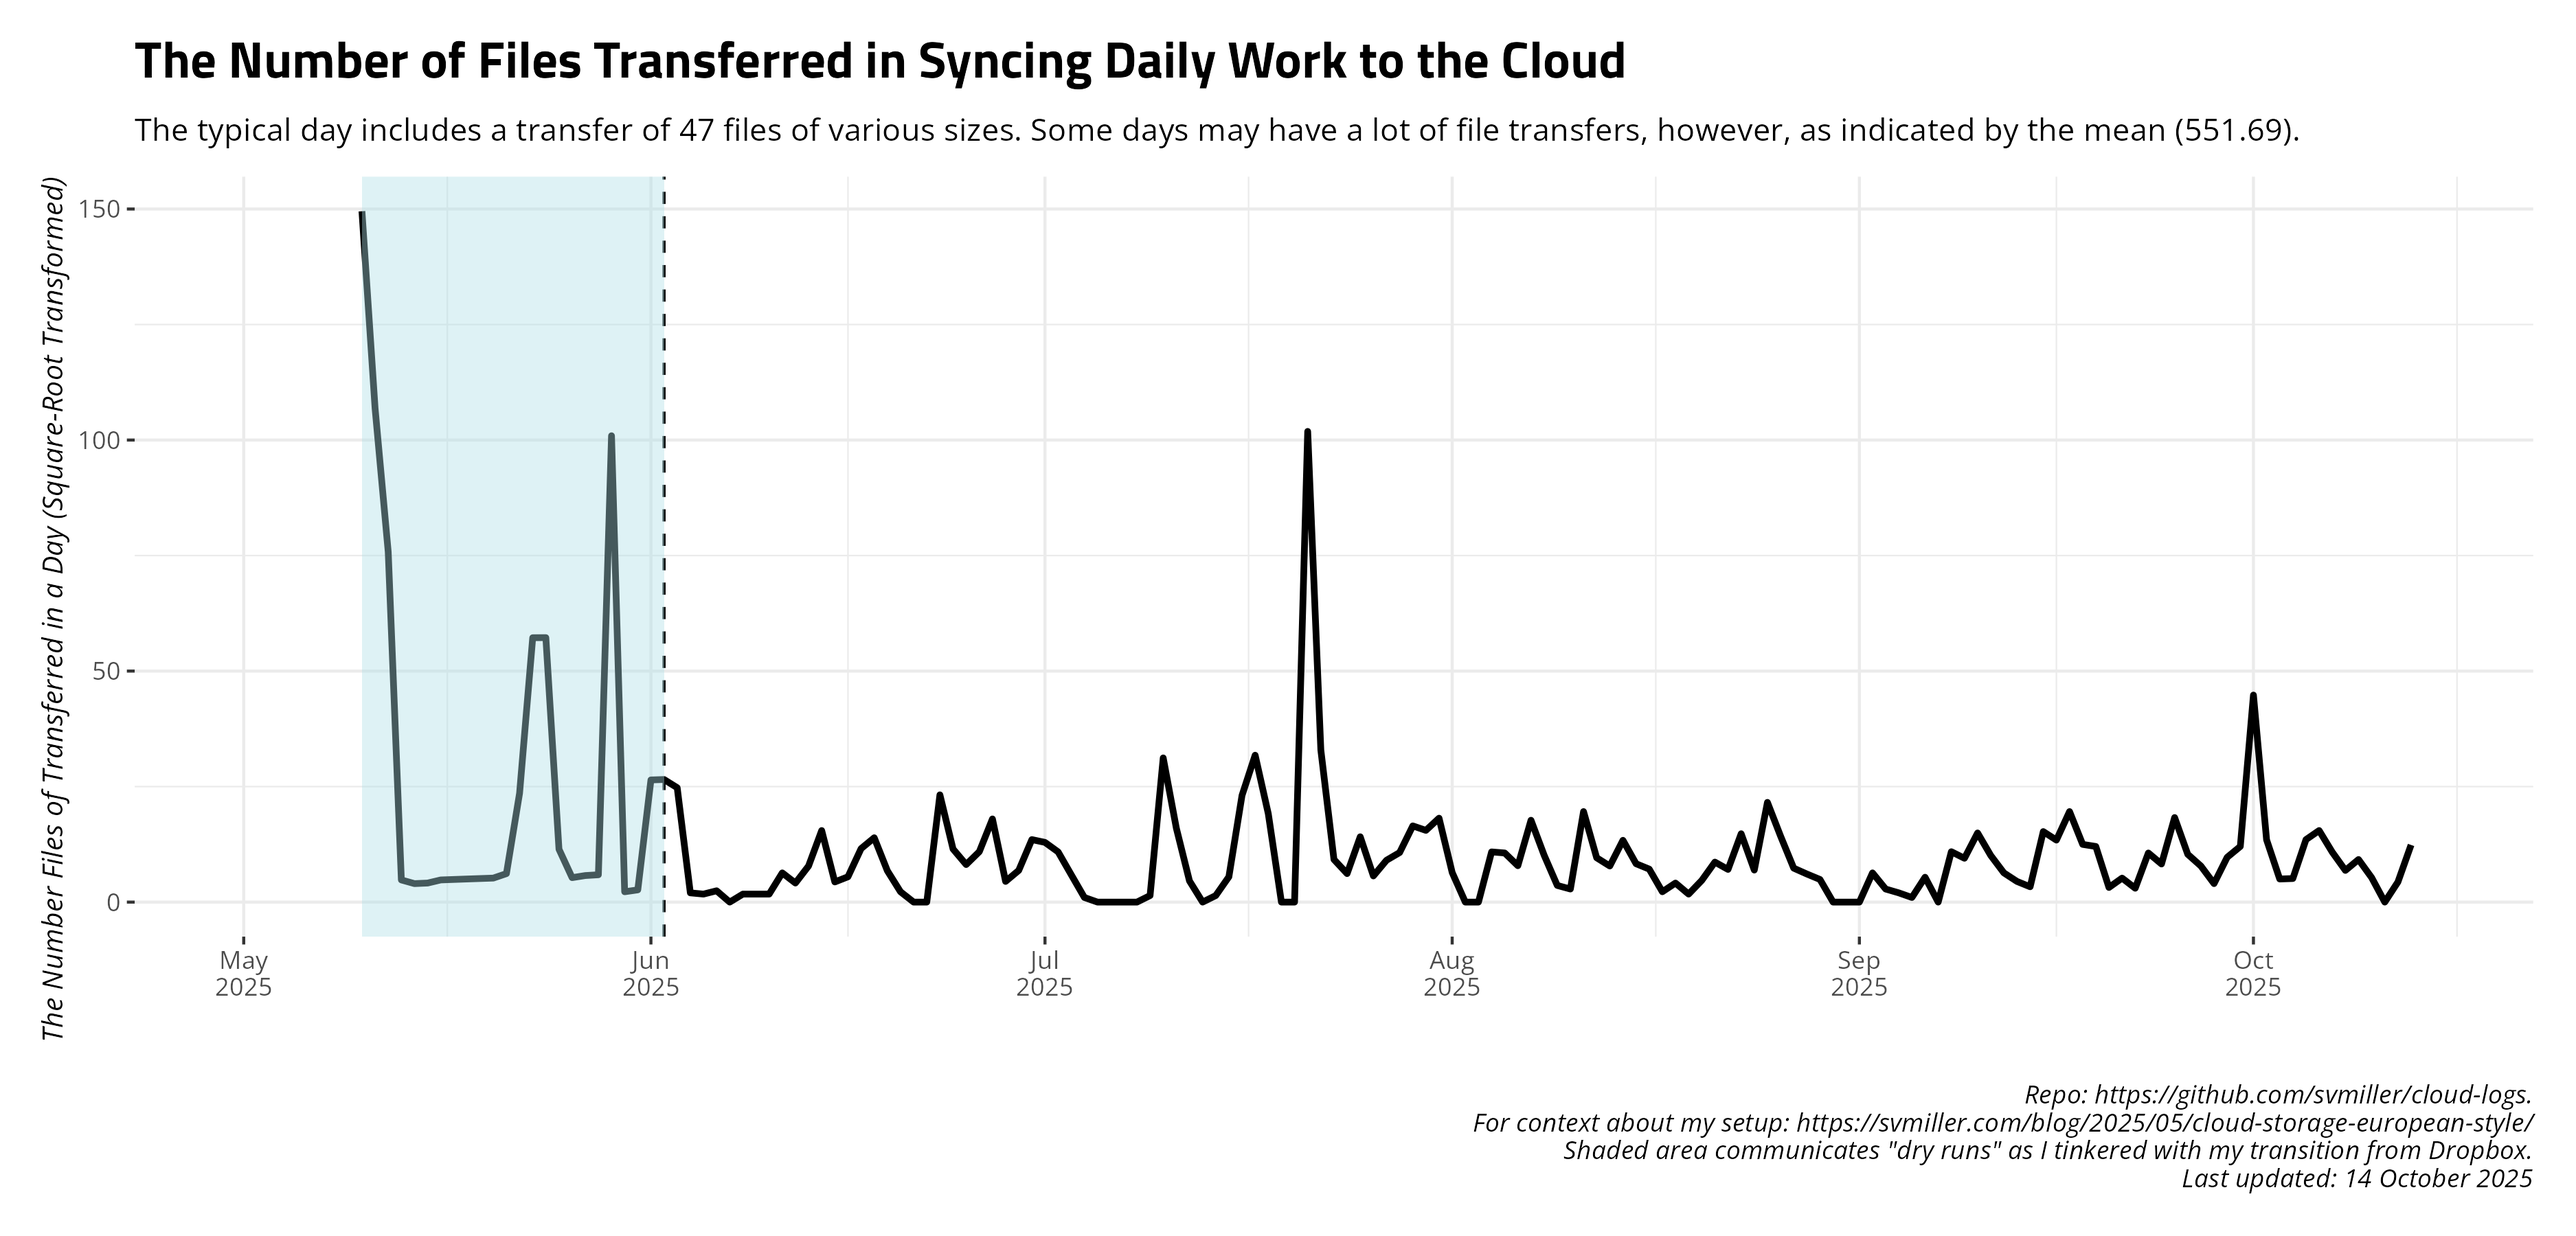
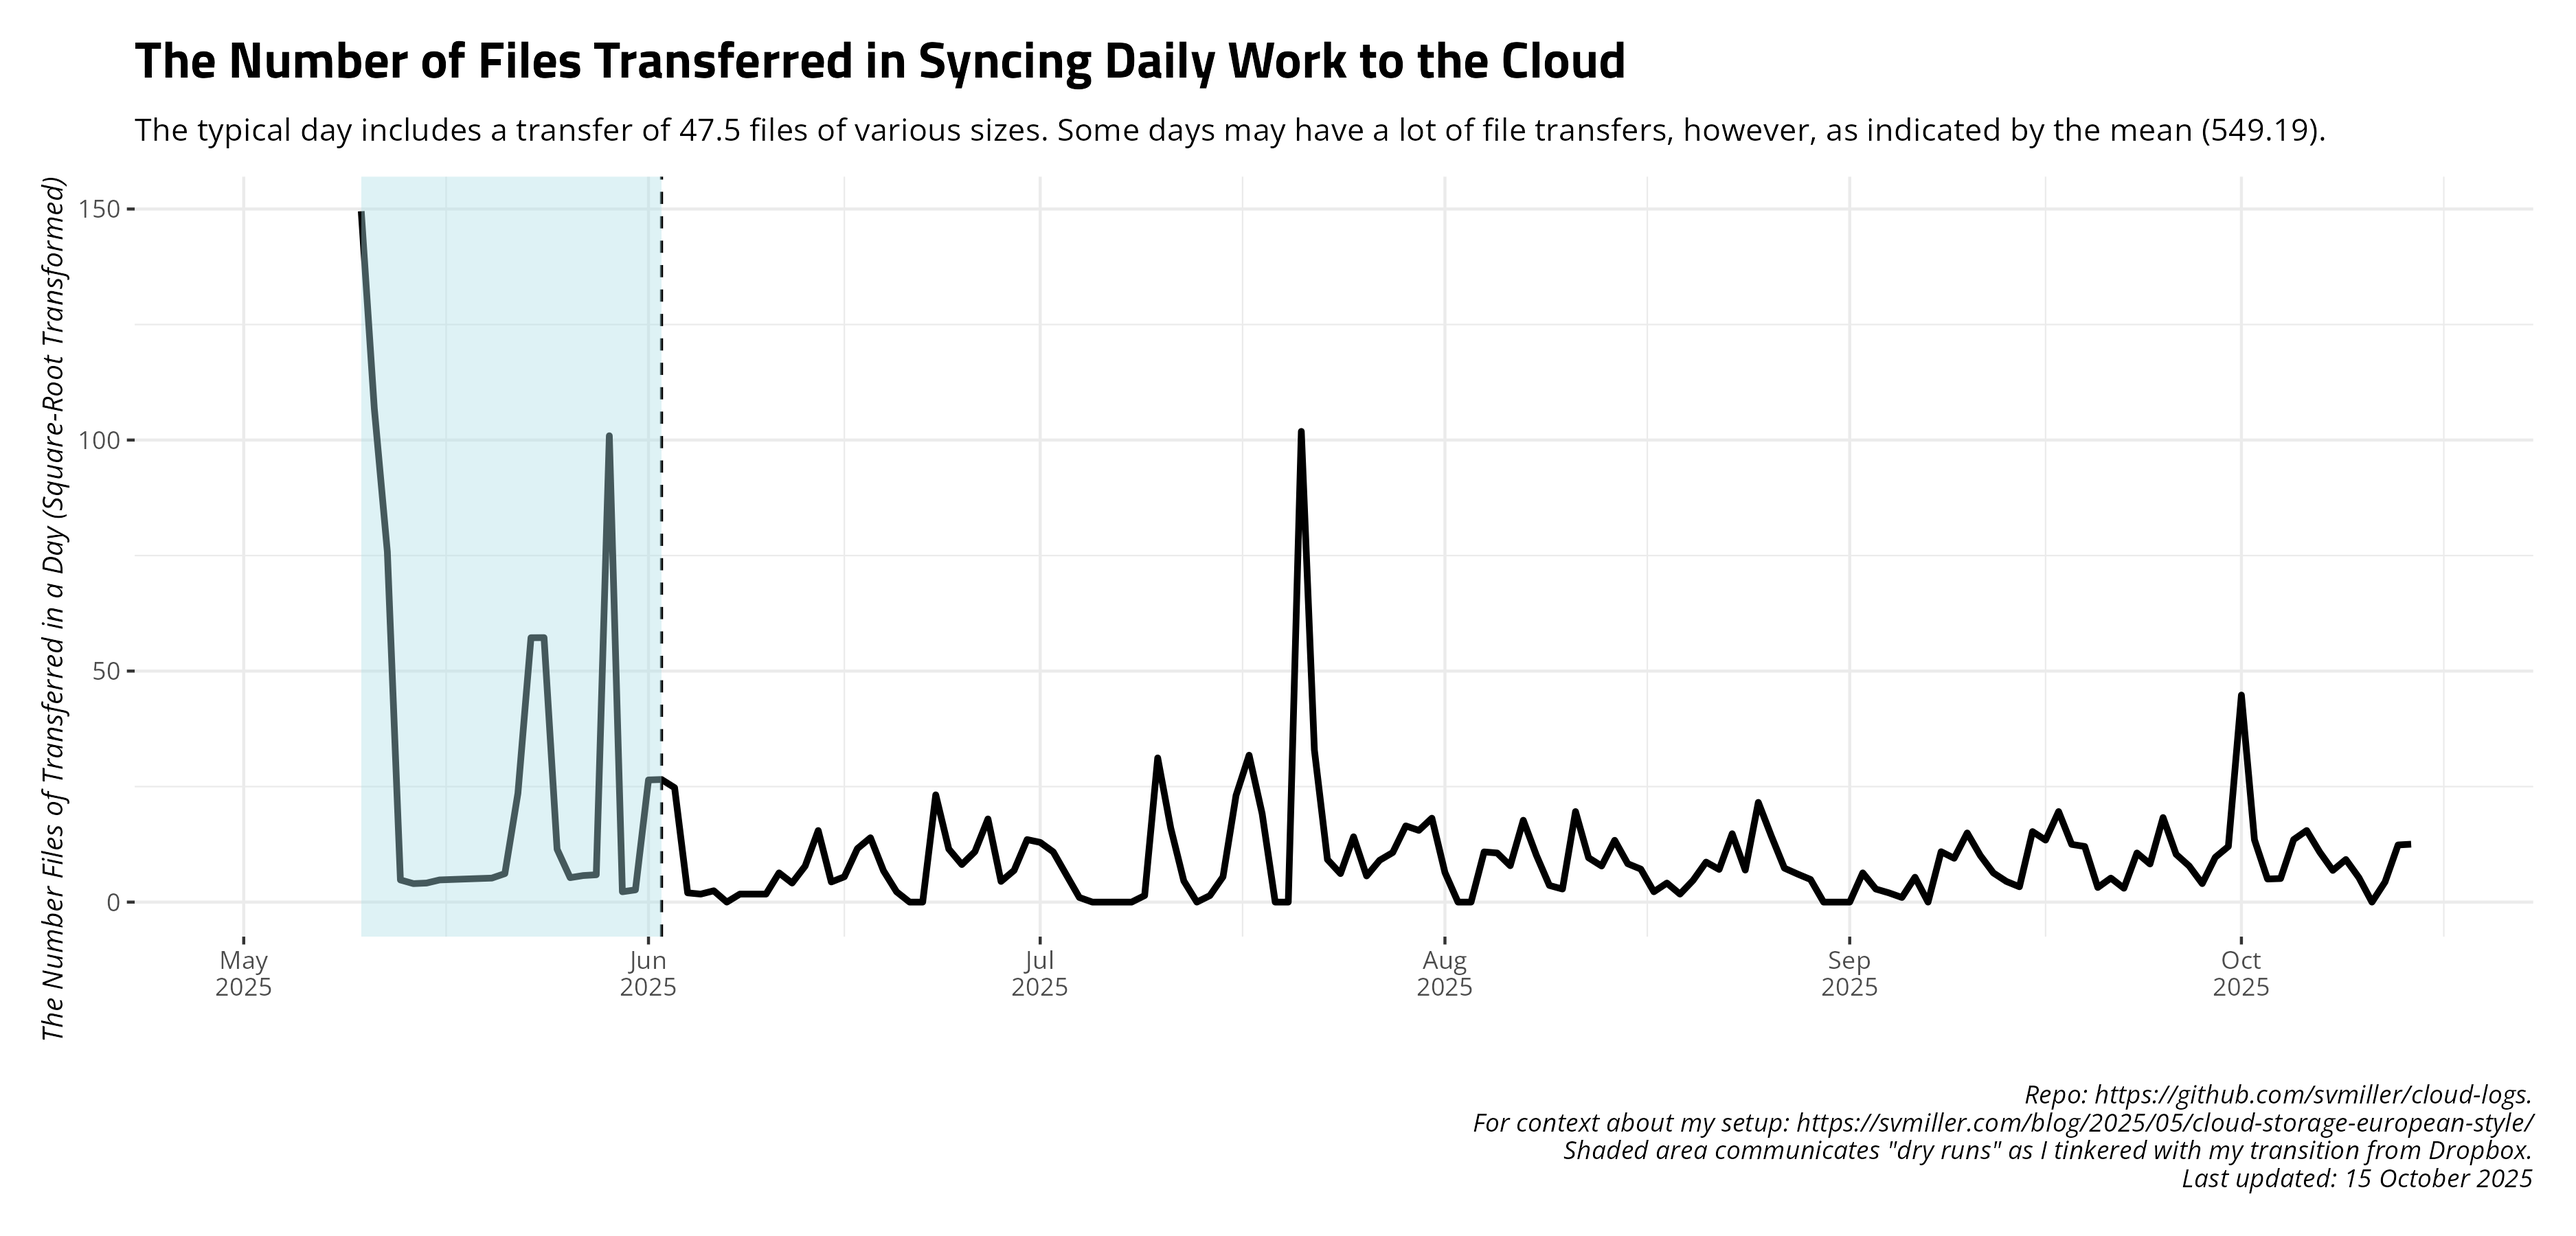
Date: 2025-10-15 09:00:14. Hi mom!

diff --git a/README.md b/README.md
@@ -27,17 +27,17 @@ and uploads to Github.
     #> # A tibble: 14 × 4
     #>    date       ftransfer stransfer   elapsed
     #>    <date>         <dbl> <chr>       <chr>  
-    #>  1 2025-09-30       145 7.854 MiB   5m18.4s
-    #>  2 2025-10-01      2008 6.663 GiB   8m36.5s
-    #>  3 2025-10-02       182 12.916 MiB  5m33.4s
-    #>  4 2025-10-03        25 138.878 KiB 6m16.7s
-    #>  5 2025-10-04        26 501.970 KiB 4m41.6s
-    #>  6 2025-10-05       183 264.462 MiB 5m18.6s
-    #>  7 2025-10-06       240 27.655 MiB  7m58.9s
-    #>  8 2025-10-07       117 4.095 MiB   4m42.1s
-    #>  9 2025-10-08        47 591.214 KiB 5m20.9s
-    #> 10 2025-10-09        85 20.453 MiB  4m0.2s 
-    #> 11 2025-10-10        28 34.344 KiB  5m16.9s
-    #> 12 2025-10-11         0 <NA>        5m16.8s
-    #> 13 2025-10-12        19 111.027 KiB 4m24.8s
-    #> 14 2025-10-13       153 10.286 MiB  4m38.6s
+    #>  1 2025-10-01      2008 6.663 GiB   8m36.5s
+    #>  2 2025-10-02       182 12.916 MiB  5m33.4s
+    #>  3 2025-10-03        25 138.878 KiB 6m16.7s
+    #>  4 2025-10-04        26 501.970 KiB 4m41.6s
+    #>  5 2025-10-05       183 264.462 MiB 5m18.6s
+    #>  6 2025-10-06       240 27.655 MiB  7m58.9s
+    #>  7 2025-10-07       117 4.095 MiB   4m42.1s
+    #>  8 2025-10-08        47 591.214 KiB 5m20.9s
+    #>  9 2025-10-09        85 20.453 MiB  4m0.2s 
+    #> 10 2025-10-10        28 34.344 KiB  5m16.9s
+    #> 11 2025-10-11         0 <NA>        5m16.8s
+    #> 12 2025-10-12        19 111.027 KiB 4m24.8s
+    #> 13 2025-10-13       153 10.286 MiB  4m38.6s
+    #> 14 2025-10-14       157 6.146 MiB   4m43.3s
